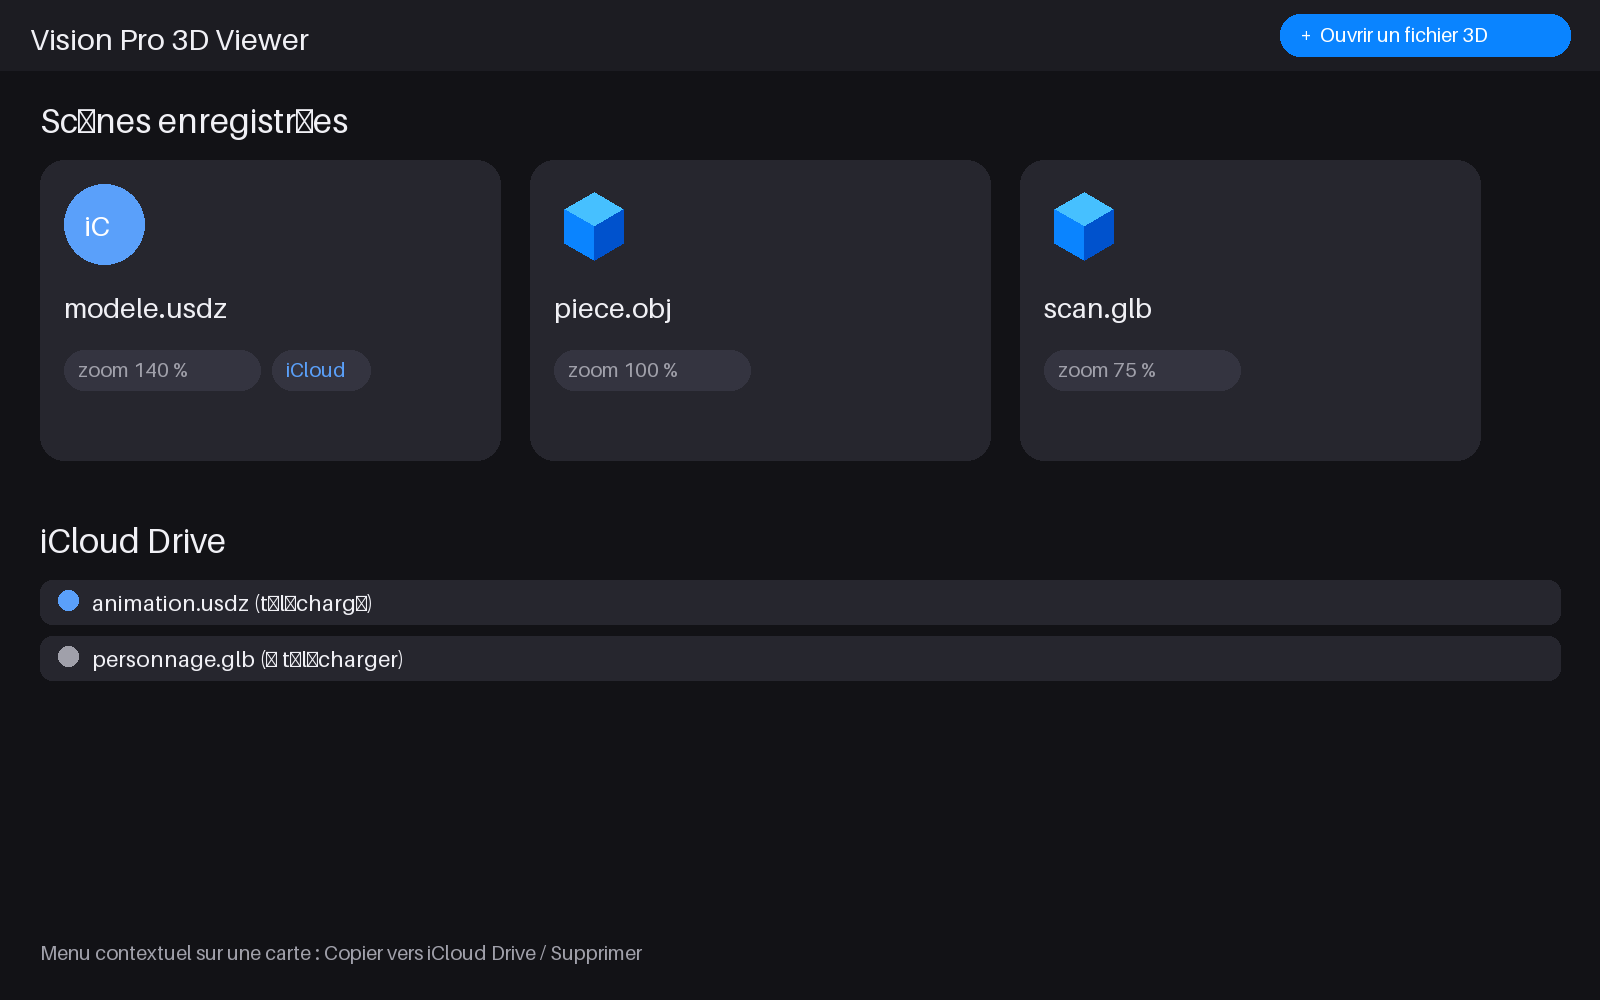
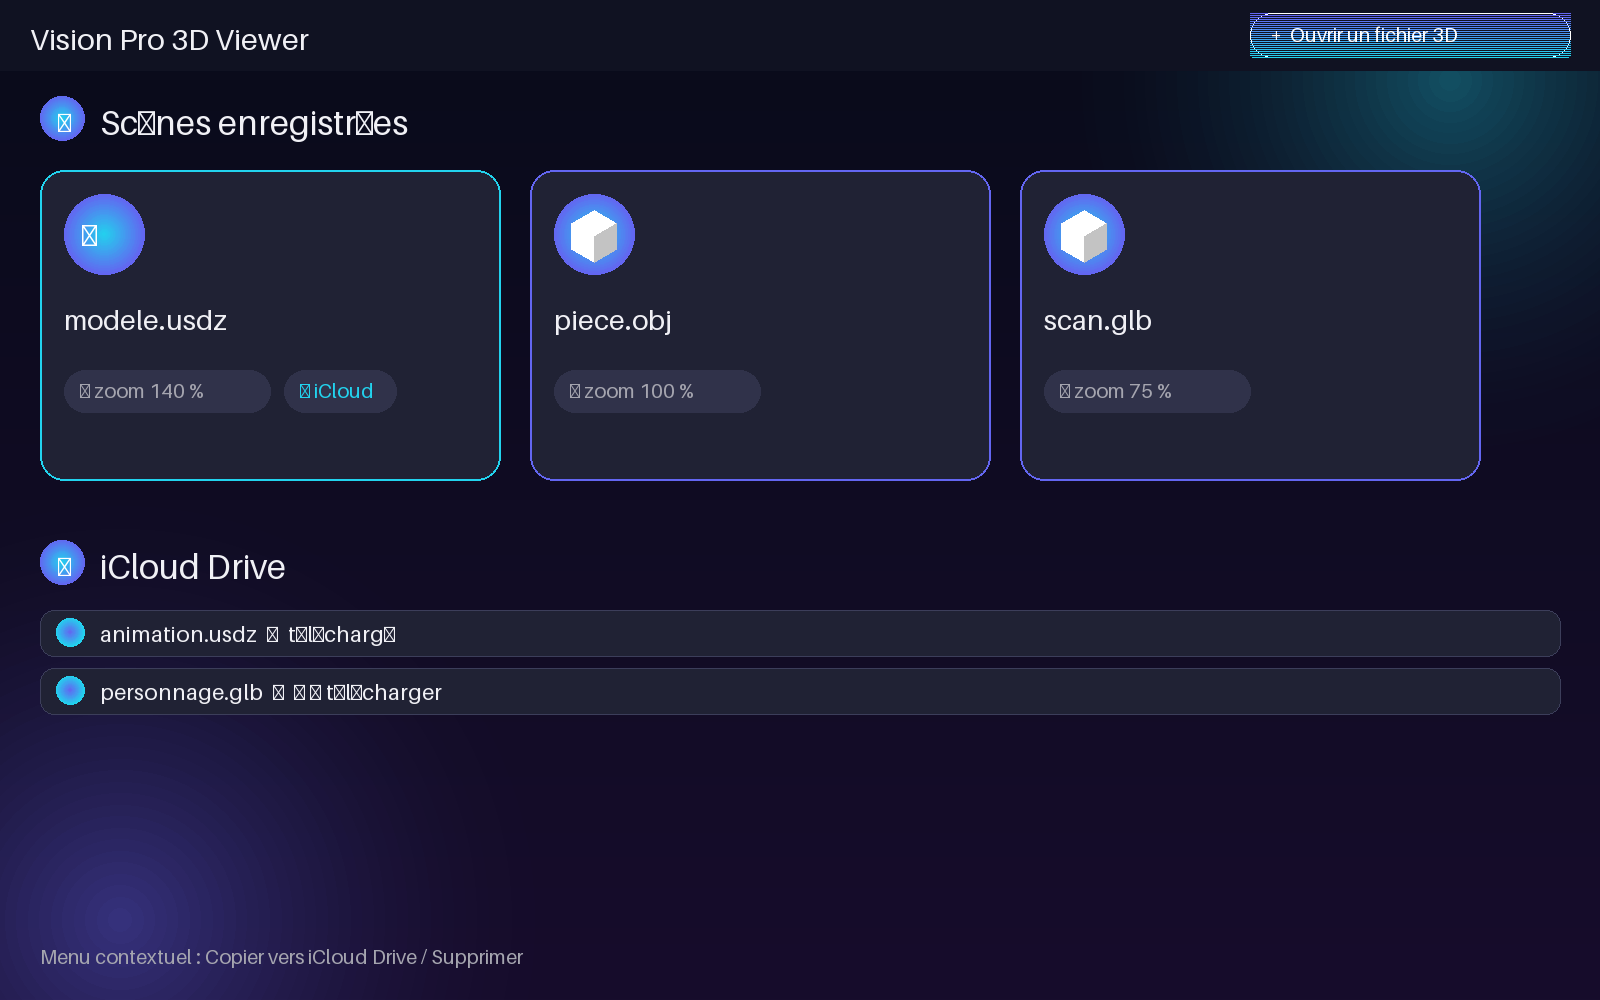
Thème visuel enrichi + maquettes régénérées
- Theme.swift : fond dégradé sombre + halos, accent indigo→cyan
- Cartes à liseré dégradé, icônes en pastille dégradée, HUD capsule avec liseré
- docs/mockups/*.png régénérées dans le nouveau style

Changed region(s): [[0.0, 0.527, 1.0, 1.0], [0.0, 0.0, 1.0, 0.496]]

diff --git a/Sources/Visionpro3DViewer/ContentView.swift b/Sources/Visionpro3DViewer/ContentView.swift
@@ -107,6 +107,7 @@ struct ContentView: View {
             .navigationDestination(for: SceneState.self) { state in
                 ViewerSceneView(state: state)
             }
+            .background(BackgroundView())
         }
     }
 
@@ -160,8 +161,15 @@ private struct SectionHeader: View {
     let systemImage: String
 
     var body: some View {
-        Label(title, systemImage: systemImage)
-            .font(.title3.bold())
+        HStack(spacing: 10) {
+            Image(systemName: systemImage)
+                .font(.title3.bold())
+                .foregroundStyle(.white)
+                .frame(width: 40, height: 40)
+                .background(Theme.accent, in: .circle)
+            Text(title)
+                .font(.title3.bold())
+        }
     }
 }
 
@@ -172,8 +180,10 @@ private struct SceneCard: View {
     var body: some View {
         VStack(alignment: .leading, spacing: 12) {
             Image(systemName: state.cloudPath != nil ? "icloud.fill" : "cube.fill")
-                .font(.system(size: 44))
-                .foregroundStyle(.tint)
+                .font(.system(size: 36))
+                .foregroundStyle(.white)
+                .frame(width: 76, height: 76)
+                .background(Theme.accent, in: .circle)
             Text(state.fileName)
                 .font(.headline)
                 .lineLimit(1)
@@ -186,8 +196,12 @@ private struct SceneCard: View {
             .font(.caption)
             .foregroundStyle(.secondary)
         }
-        .padding(16)
+        .padding(18)
         .frame(maxWidth: .infinity, alignment: .leading)
-        .background(.thinMaterial, in: .rect(cornerRadius: 20))
+        .background(.ultraThinMaterial, in: .rect(cornerRadius: 24))
+        .overlay(
+            RoundedRectangle(cornerRadius: 24)
+                .stroke(Theme.accent.opacity(0.45), lineWidth: 1.5)
+        )
     }
 }

diff --git a/Sources/Visionpro3DViewer/Theme.swift b/Sources/Visionpro3DViewer/Theme.swift
@@ -1,0 +1,44 @@
+import SwiftUI
+
+/// Thème visuel de l'application : fond sombre dégradé, accents indigo → cyan,
+/// surfaces en verre dépoli (`material`) et liserés dégradés.
+enum Theme {
+    /// Accent principal de l'interface.
+    static let accent = LinearGradient(
+        colors: [.indigo, .cyan],
+        startPoint: .topLeading,
+        endPoint: .bottomTrailing
+    )
+
+    /// Fond principal de l'app.
+    static let background = LinearGradient(
+        colors: [
+            Color(red: 0.035, green: 0.045, blue: 0.10),
+            Color(red: 0.09, green: 0.05, blue: 0.17)
+        ],
+        startPoint: .top,
+        endPoint: .bottom
+    )
+}
+
+/// Fond d'écran : dégradé sombre + halos lumineux discrets.
+struct BackgroundView: View {
+    var body: some View {
+        ZStack {
+            Theme.background
+            RadialGradient(
+                colors: [.cyan.opacity(0.16), .clear],
+                center: .topTrailing,
+                startRadius: 40,
+                endRadius: 520
+            )
+            RadialGradient(
+                colors: [.indigo.opacity(0.20), .clear],
+                center: .bottomLeading,
+                startRadius: 40,
+                endRadius: 560
+            )
+        }
+        .ignoresSafeArea()
+    }
+}

diff --git a/Sources/Visionpro3DViewer/ViewerSceneView.swift b/Sources/Visionpro3DViewer/ViewerSceneView.swift
@@ -77,18 +77,23 @@ struct InteractiveModelView: View {
             } label: {
                 Label("Réinitialiser", systemImage: "arrow.counterclockwise")
             }
+            .buttonStyle(.borderedProminent)
             Button {
                 fitToFrame()
             } label: {
                 Label("Centrer", systemImage: "scope")
             }
+            .buttonStyle(.borderedProminent)
             Text("zoom \(Int(scale * 100)) %")
                 .font(.caption)
                 .foregroundStyle(.secondary)
         }
-        .buttonStyle(.bordered)
-        .padding(10)
-        .background(.thinMaterial, in: .capsule)
+        .padding(12)
+        .background(.ultraThinMaterial, in: .capsule)
+        .overlay(
+            Capsule()
+                .stroke(Theme.accent.opacity(0.5), lineWidth: 1.5)
+        )
         .padding(.bottom, 16)
     }
 

diff --git a/docs/make_mockups.py b/docs/make_mockups.py
@@ -1,5 +1,5 @@
 #!/usr/bin/env python3
-"""Génère les maquettes PNG de l'interface de Vision Pro 3D Viewer (docs/mockups/)."""
+"""Maquettes PNG du thème enrichi de Vision Pro 3D Viewer (docs/mockups/)."""
 from PIL import Image, ImageDraw, ImageFont
 import os
 
@@ -7,113 +7,169 @@ OUT = os.path.join(os.path.dirname(__file__), "mockups")
 os.makedirs(OUT, exist_ok=True)
 
 W, H = 1600, 1000
-BG = (18, 18, 22)
-PANEL = (38, 38, 46)
-PANEL2 = (52, 52, 64)
 TEXT = (240, 240, 245)
-SUB = (160, 160, 170)
-ACCENT = (10, 132, 255)
-CLOUD = (90, 160, 250)
+SUB = (165, 165, 175)
+INDIGO = (99, 102, 241)
+CYAN = (34, 211, 238)
 
 
-def font(size, bold=False):
+def font(size):
     return ImageFont.load_default(size=size)
+
+
+def lerp(a, b, t):
+    return tuple(int(a[i] + (b[i] - a[i]) * t) for i in range(3))
+
+
+def vgradient(size, top, bottom):
+    """Dégradé vertical."""
+    w, h = size
+    img = Image.new("RGB", size)
+    d = ImageDraw.Draw(img)
+    for y in range(h):
+        d.line([(0, y), (w, y)], fill=lerp(top, bottom, y / max(1, h - 1)))
+    return img
+
+
+def glow(img, cx, cy, radius, color, alpha):
+    """Halo radial."""
+    overlay = Image.new("RGBA", img.size, (0, 0, 0, 0))
+    d = ImageDraw.Draw(overlay)
+    steps = 40
+    for i in range(steps, 0, -1):
+        r = radius * i / steps
+        a = int(alpha * (1 - i / steps) ** 2)
+        d.ellipse([cx - r, cy - r, cx + r, cy + r], fill=color + (a,))
+    img.paste(Image.alpha_composite(img.convert("RGBA"), overlay).convert("RGB"), (0, 0))
+
+
+def base_bg():
+    img = vgradient((W, H), (9, 11, 26), (23, 13, 44))
+    glow(img, W - 150, 80, 420, CYAN, 90)
+    glow(img, 120, H - 80, 460, INDIGO, 110)
+    return img
 
 
 def rrect(d, box, r, fill, outline=None, width=1):
     d.rounded_rectangle(box, radius=r, fill=fill, outline=outline, width=width)
 
 
+def grad_circle(d, box, c1=INDIGO, c2=CYAN):
+    """Pastille dégradée (approximée par des anneaux)."""
+    x0, y0, x1, y1 = box
+    steps = 24
+    for i in range(steps, 0, -1):
+        t = i / steps
+        r = (x1 - x0) / 2 * t
+        cx, cy = (x0 + x1) / 2, (y0 + y1) / 2
+        d.ellipse([cx - r, cy - r, cx + r, cy + r], fill=lerp(c2, c1, t))
+
+
 def cube(d, cx, cy, s, color):
-    """Dessine un cube isométrique simple."""
-    import math
     top = [(cx, cy - s), (cx + s * 0.87, cy - s * 0.5), (cx, cy), (cx - s * 0.87, cy - s * 0.5)]
     left = [(cx - s * 0.87, cy - s * 0.5), (cx, cy), (cx, cy + s), (cx - s * 0.87, cy + s * 0.5)]
     right = [(cx, cy), (cx + s * 0.87, cy - s * 0.5), (cx + s * 0.87, cy + s * 0.5), (cx, cy + s)]
-    d.polygon(top, fill=tuple(min(255, c + 60) for c in color))
+    d.polygon(top, fill=tuple(min(255, c + 70) for c in color))
     d.polygon(left, fill=color)
-    d.polygon(right, fill=tuple(max(0, c - 50) for c in color))
+    d.polygon(right, fill=tuple(max(0, c - 60) for c in color))
 
 
 def header(d, title):
-    d.rectangle([0, 0, W, 70], fill=(28, 28, 34))
+    d.rectangle([0, 0, W, 70], fill=(16, 18, 34))
     d.text((30, 20), title, font=font(30), fill=TEXT)
-    rrect(d, [W - 320, 14, W - 30, 56], 20, ACCENT)
-    d.text((W - 300, 22), "+  Ouvrir un fichier 3D", font=font(20), fill=(255, 255, 255))
+    # bouton dégradé
+    btn = [W - 350, 13, W - 30, 57]
+    for i in range(22):
+        t = i / 21
+        d.line([(btn[0], btn[1] + i * 2), (btn[2], btn[1] + i * 2)], fill=lerp(INDIGO, CYAN, t))
+    d.rounded_rectangle(btn, radius=22, outline=None)
+    for i in range(22):
+        t = i / 21
+        d.line([(btn[0] + 2, btn[1] + 2 + i * 2), (btn[2] - 2, btn[1] + 2 + i * 2)], fill=lerp(INDIGO, CYAN, t))
+    d.text((W - 330, 22), "+  Ouvrir un fichier 3D", font=font(20), fill=(255, 255, 255))
 
 
 # ---------------------------------------------------------------- accueil
 def mock_home():
-    img = Image.new("RGB", (W, H), BG)
+    img = base_bg()
     d = ImageDraw.Draw(img)
     header(d, "Vision Pro 3D Viewer")
-    d.text((40, 100), "Scènes enregistrées", font=font(34), fill=TEXT)
+    grad_circle(d, [40, 96, 84, 140])
+    d.text((58, 106), "▣", font=font(26), fill=(255, 255, 255))
+    d.text((100, 102), "Scènes enregistrées", font=font(34), fill=TEXT)
 
-    cards = [
-        ("modele.usdz", "zoom 140 %", True, True),
-        ("piece.obj", "zoom 100 %", False, False),
-        ("scan.glb", "zoom 75 %", False, False),
-    ]
-    cw, ch, gap, x0, y0 = 460, 300, 30, 40, 160
-    for i, (name, zoom, is_cloud, _sel) in enumerate(cards):
+    cards = [("modele.usdz", "zoom 140 %", True), ("piece.obj", "zoom 100 %", False), ("scan.glb", "zoom 75 %", False)]
+    cw, ch, gap, x0, y0 = 460, 310, 30, 40, 170
+    for i, (name, zoom, is_cloud) in enumerate(cards):
         x = x0 + i * (cw + gap)
-        rrect(d, [x, y0, x + cw, y0 + ch], 24, PANEL)
+        rrect(d, [x, y0, x + cw, y0 + ch], 24, (32, 34, 52))
+        d.rounded_rectangle([x, y0, x + cw, y0 + ch], radius=24, outline=CYAN if is_cloud else INDIGO, width=2)
+        grad_circle(d, [x + 24, y0 + 24, x + 104, y0 + 104])
         if is_cloud:
-            d.ellipse([x + 24, y0 + 24, x + 104, y0 + 104], fill=CLOUD)
-            d.text((x + 44, y0 + 48), "iC", font=font(28), fill=(255, 255, 255))
+            d.text((x + 42, y0 + 46), "☁", font=font(30), fill=(255, 255, 255))
         else:
-            cube(d, x + 64, y0 + 66, 34, ACCENT)
-        d.text((x + 24, y0 + 130), name, font=font(28), fill=TEXT)
-        rrect(d, [x + 24, y0 + 190, x + 220, y0 + 230], 20, PANEL2)
-        d.text((x + 38, y0 + 197), zoom, font=font(20), fill=SUB)
+            cube(d, x + 64, y0 + 66, 26, (255, 255, 255))
+        d.text((x + 24, y0 + 132), name, font=font(28), fill=TEXT)
+        rrect(d, [x + 24, y0 + 200, x + 230, y0 + 242], 21, (48, 50, 74))
+        d.text((x + 40, y0 + 208), "🔍 " + zoom, font=font(20), fill=SUB)
         if is_cloud:
-            rrect(d, [x + 232, y0 + 190, x + 330, y0 + 230], 20, PANEL2)
-            d.text((x + 246, y0 + 197), "iCloud", font=font(20), fill=CLOUD)
+            rrect(d, [x + 244, y0 + 200, x + 356, y0 + 242], 21, (48, 50, 74))
+            d.text((x + 260, y0 + 208), "☁ iCloud", font=font(20), fill=CYAN)
 
-    d.text((40, 520), "iCloud Drive", font=font(34), fill=TEXT)
-    rows = ["animation.usdz (téléchargé)", "personnage.glb (à télécharger)"]
-    for i, r in enumerate(rows):
-        y = 580 + i * 56
-        rrect(d, [40, y, W - 40, y + 44], 12, PANEL)
-        d.ellipse([58, y + 10, 78, y + 30], fill=CLOUD if i == 0 else SUB)
-        d.text((92, y + 9), r, font=font(22), fill=TEXT)
-
-    d.text((40, H - 60), "Menu contextuel sur une carte : Copier vers iCloud Drive / Supprimer",
-           font=font(20), fill=SUB)
+    grad_circle(d, [40, 540, 84, 584])
+    d.text((58, 550), "☁", font=font(26), fill=(255, 255, 255))
+    d.text((100, 546), "iCloud Drive", font=font(34), fill=TEXT)
+    for i, r in enumerate(["animation.usdz  —  téléchargé", "personnage.glb  —  ☁ à télécharger"]):
+        y = 610 + i * 58
+        rrect(d, [40, y, W - 40, y + 46], 14, (32, 34, 52))
+        d.rounded_rectangle([40, y, W - 40, y + 46], radius=14, outline=(60, 62, 90), width=1)
+        grad_circle(d, [56, y + 8, 84, y + 36], CYAN, INDIGO)
+        d.text((100, y + 10), r, font=font(22), fill=TEXT)
+    d.text((40, H - 56), "Menu contextuel : Copier vers iCloud Drive / Supprimer", font=font(20), fill=SUB)
     img.save(os.path.join(OUT, "01-accueil.png"))
 
 
 # ---------------------------------------------------------------- scène 3D
 def mock_scene():
-    img = Image.new("RGB", (W, H), BG)
+    img = base_bg()
     d = ImageDraw.Draw(img)
-    # fenêtre volumétrique
-    rrect(d, [120, 90, W - 120, H - 90], 40, (24, 24, 30))
-    d.text((160, 120), "modele.usdz", font=font(30), fill=TEXT)
-    # zone 3D
-    cube(d, W // 2, 480, 150, ACCENT)
-    # HUD
-    hx, hy, hw, hh = 430, H - 220, 740, 70
-    rrect(d, [hx, hy, hx + hw, hy + hh], 35, (60, 60, 72))
-    d.text((hx + 30, hy + 20), "↺  Réinitialiser", font=font(24), fill=TEXT)
-    d.text((hx + 260, hy + 20), "◎  Centrer", font=font(24), fill=TEXT)
-    d.text((hx + 420, hy + 20), "zoom 140 %", font=font(24), fill=SUB)
-    # barre d'outils
-    rrect(d, [430, H - 130, 1170, H - 100 + 40], 20, ACCENT)
-    d.text((620, H - 118), "👓  Mode immersif", font=font(22), fill=(255, 255, 255))
+    rrect(d, [120, 90, W - 120, H - 90], 40, (20, 22, 38))
+    d.rounded_rectangle([120, 90, W - 120, H - 90], radius=40, outline=(70, 72, 110), width=2)
+    d.text((160, 118), "modele.usdz", font=font(30), fill=TEXT)
+    glow(img, W // 2, 470, 320, INDIGO, 90)
+    d = ImageDraw.Draw(img)
+    cube(d, W // 2, 470, 150, CYAN)
+    # HUD capsule
+    hx, hy, hw, hh = 400, H - 230, 800, 76
+    rrect(d, [hx, hy, hx + hw, hy + hh], 38, (40, 42, 66))
+    d.rounded_rectangle([hx, hy, hx + hw, hy + hh], radius=38, outline=CYAN, width=2)
+    d.text((hx + 32, hy + 24), "↺  Réinitialiser", font=font(24), fill=TEXT)
+    d.text((hx + 290, hy + 24), "◎  Centrer", font=font(24), fill=TEXT)
+    d.text((hx + 480, hy + 24), "zoom 140 %", font=font(24), fill=SUB)
+    # bouton immersif dégradé
+    bx, by = 560, H - 130
+    rrect(d, [bx, by, bx + 480, by + 56], 28, INDIGO)
+    for i in range(28):
+        t = i / 27
+        d.line([(bx + 2, by + 2 + i * 2), (bx + 478, by + 2 + i * 2)], fill=lerp(INDIGO, CYAN, t))
+    d.text((bx + 150, by + 14), "👓  Mode immersif", font=font(22), fill=(255, 255, 255))
     img.save(os.path.join(OUT, "02-scene.png"))
 
 
 # ---------------------------------------------------------------- immersif
 def mock_immersive():
-    img = Image.new("RGB", (W, H), (5, 5, 8))
+    img = vgradient((W, H), (4, 5, 12), (10, 6, 24))
+    glow(img, W // 2, H // 2, 520, INDIGO, 130)
+    glow(img, W - 200, 200, 260, CYAN, 70)
     d = ImageDraw.Draw(img)
-    cube(d, W // 2, H // 2, 260, ACCENT)
-    rrect(d, [W - 420, 40, W - 40, 100], 30, (60, 60, 72))
-    d.text((W - 400, 56), "✕  Quitter l'immersion", font=font(24), fill=TEXT)
-    hx, hy, hw, hh = 500, H - 130, 600, 70
-    rrect(d, [hx, hy, hx + hw, hy + hh], 35, (50, 50, 62))
-    d.text((hx + 30, hy + 20), "↺  Réinitialiser   ◎  Centrer   zoom 140 %", font=font(24), fill=TEXT)
+    cube(d, W // 2, H // 2, 260, CYAN)
+    rrect(d, [W - 440, 40, W - 40, 104], 32, (40, 42, 66))
+    d.rounded_rectangle([W - 440, 40, W - 40, 104], radius=32, outline=CYAN, width=2)
+    d.text((W - 420, 58), "✕  Quitter l'immersion", font=font(24), fill=TEXT)
+    hx, hy, hw, hh = 480, H - 140, 640, 76
+    rrect(d, [hx, hy, hx + hw, hy + hh], 38, (40, 42, 66))
+    d.rounded_rectangle([hx, hy, hx + hw, hy + hh], radius=38, outline=INDIGO, width=2)
+    d.text((hx + 30, hy + 24), "↺ Réinitialiser   ◎ Centrer   zoom 140 %", font=font(24), fill=TEXT)
     d.text((40, 40), "ImmersiveSpace — immersion totale (.full)", font=font(26), fill=SUB)
     img.save(os.path.join(OUT, "03-immersif.png"))
 

diff --git a/README.md b/README.md
@@ -65,6 +65,12 @@ de l'app, activez **Signing & Capabilities → + Capability → iCloud → iClou
 - **Mode immersif** : `ImmersiveSpace` plein écran (`immersionStyle: .full`),
   ouvert depuis la barre d'outils de la scène.
 
+## Maquettes de l'interface
+
+Rendus PNG du thème actuel (fond dégradé + halos, cartes à liseré dégradé, HUD capsule) :
+[`docs/mockups/`](docs/mockups/) — accueil, scène 3D et mode immersif
+(générés par `docs/make_mockups.py`).
+
 ## Lancer le projet
 
 1. Ouvrir le dépôt dans **Xcode 16+** (`File > Open...` sur le `Package.swift`,
